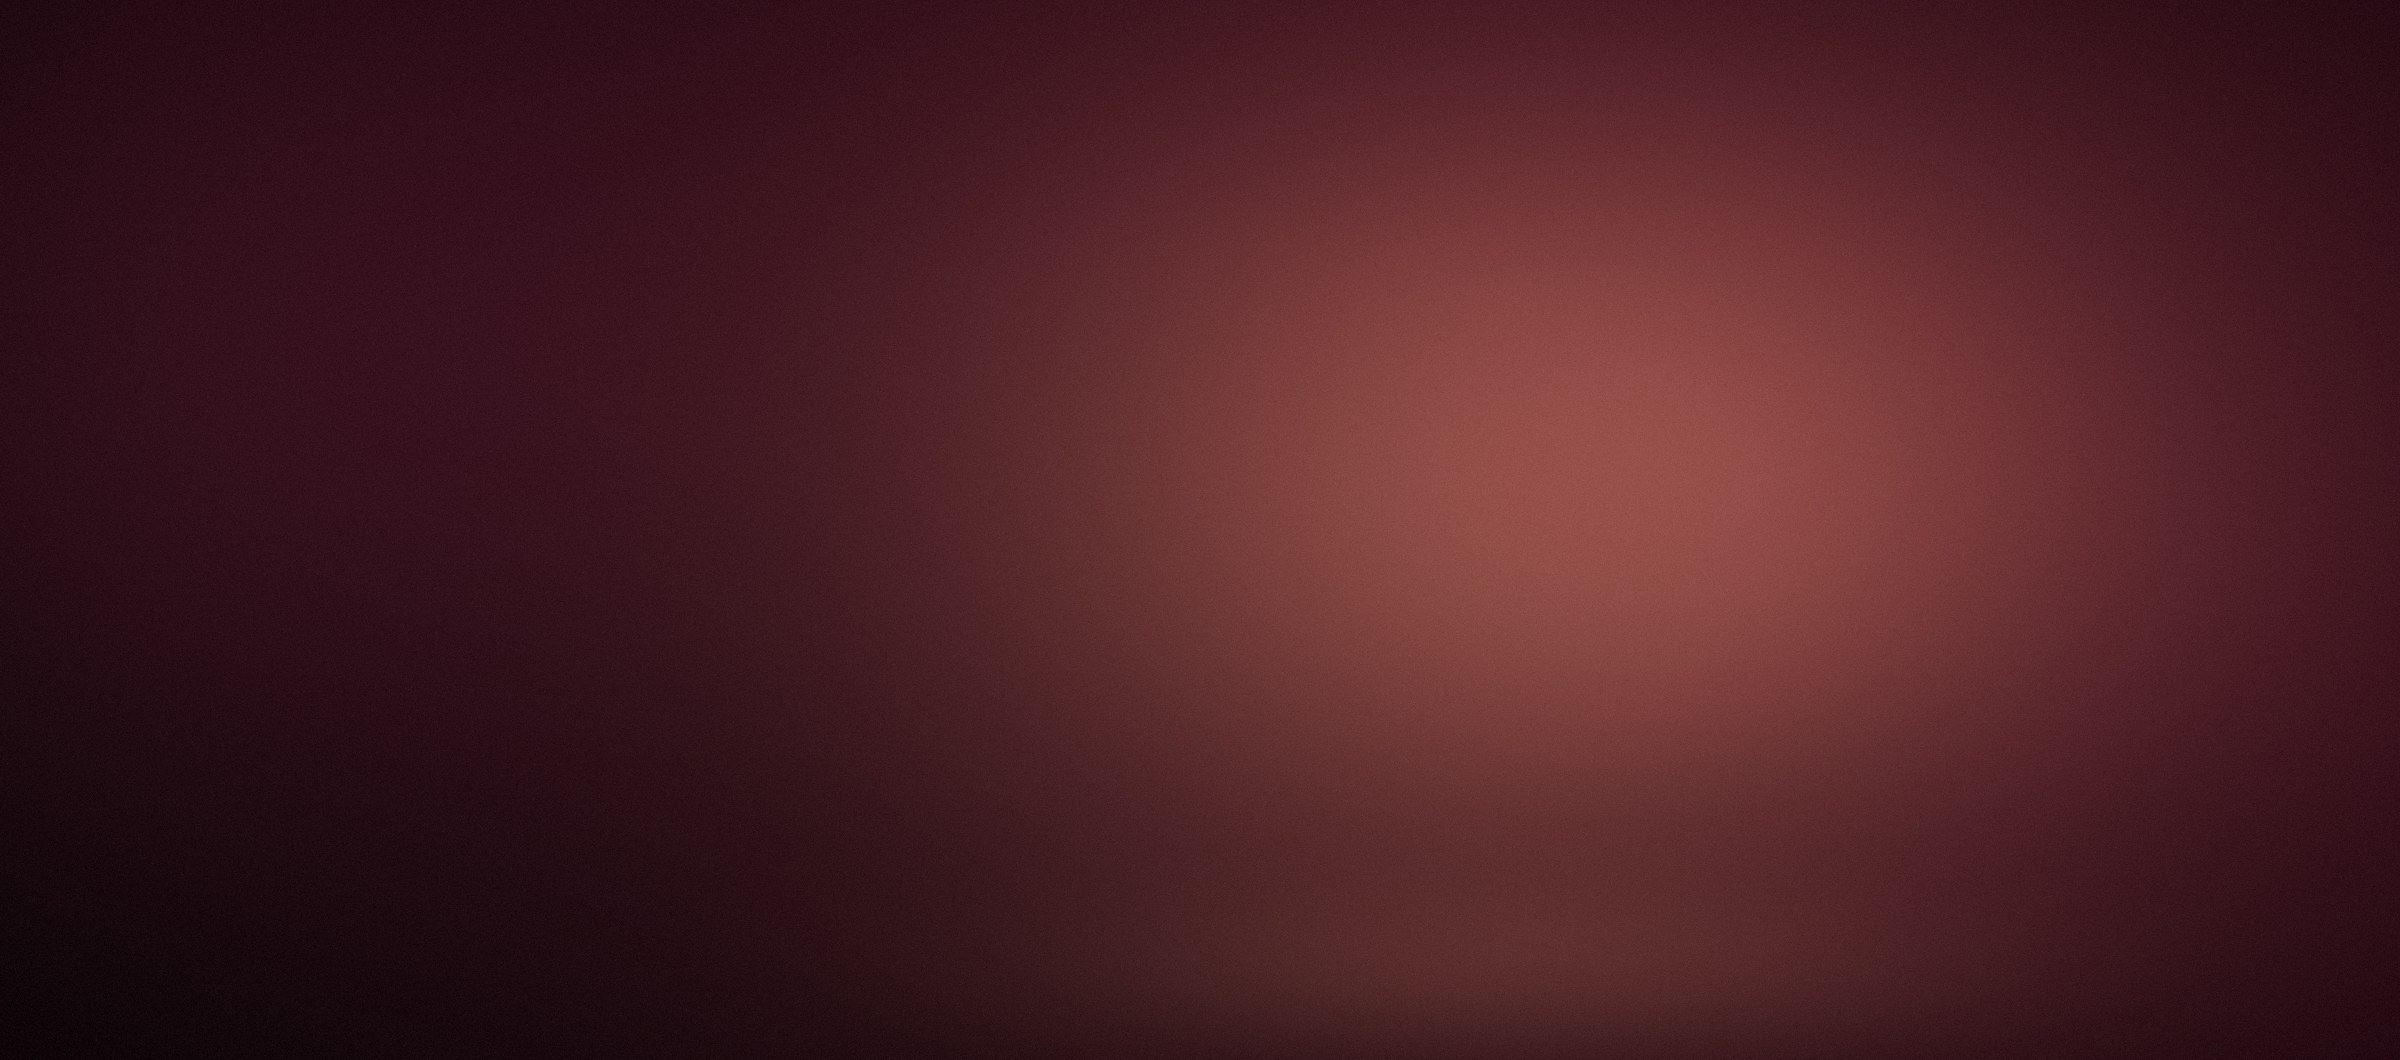
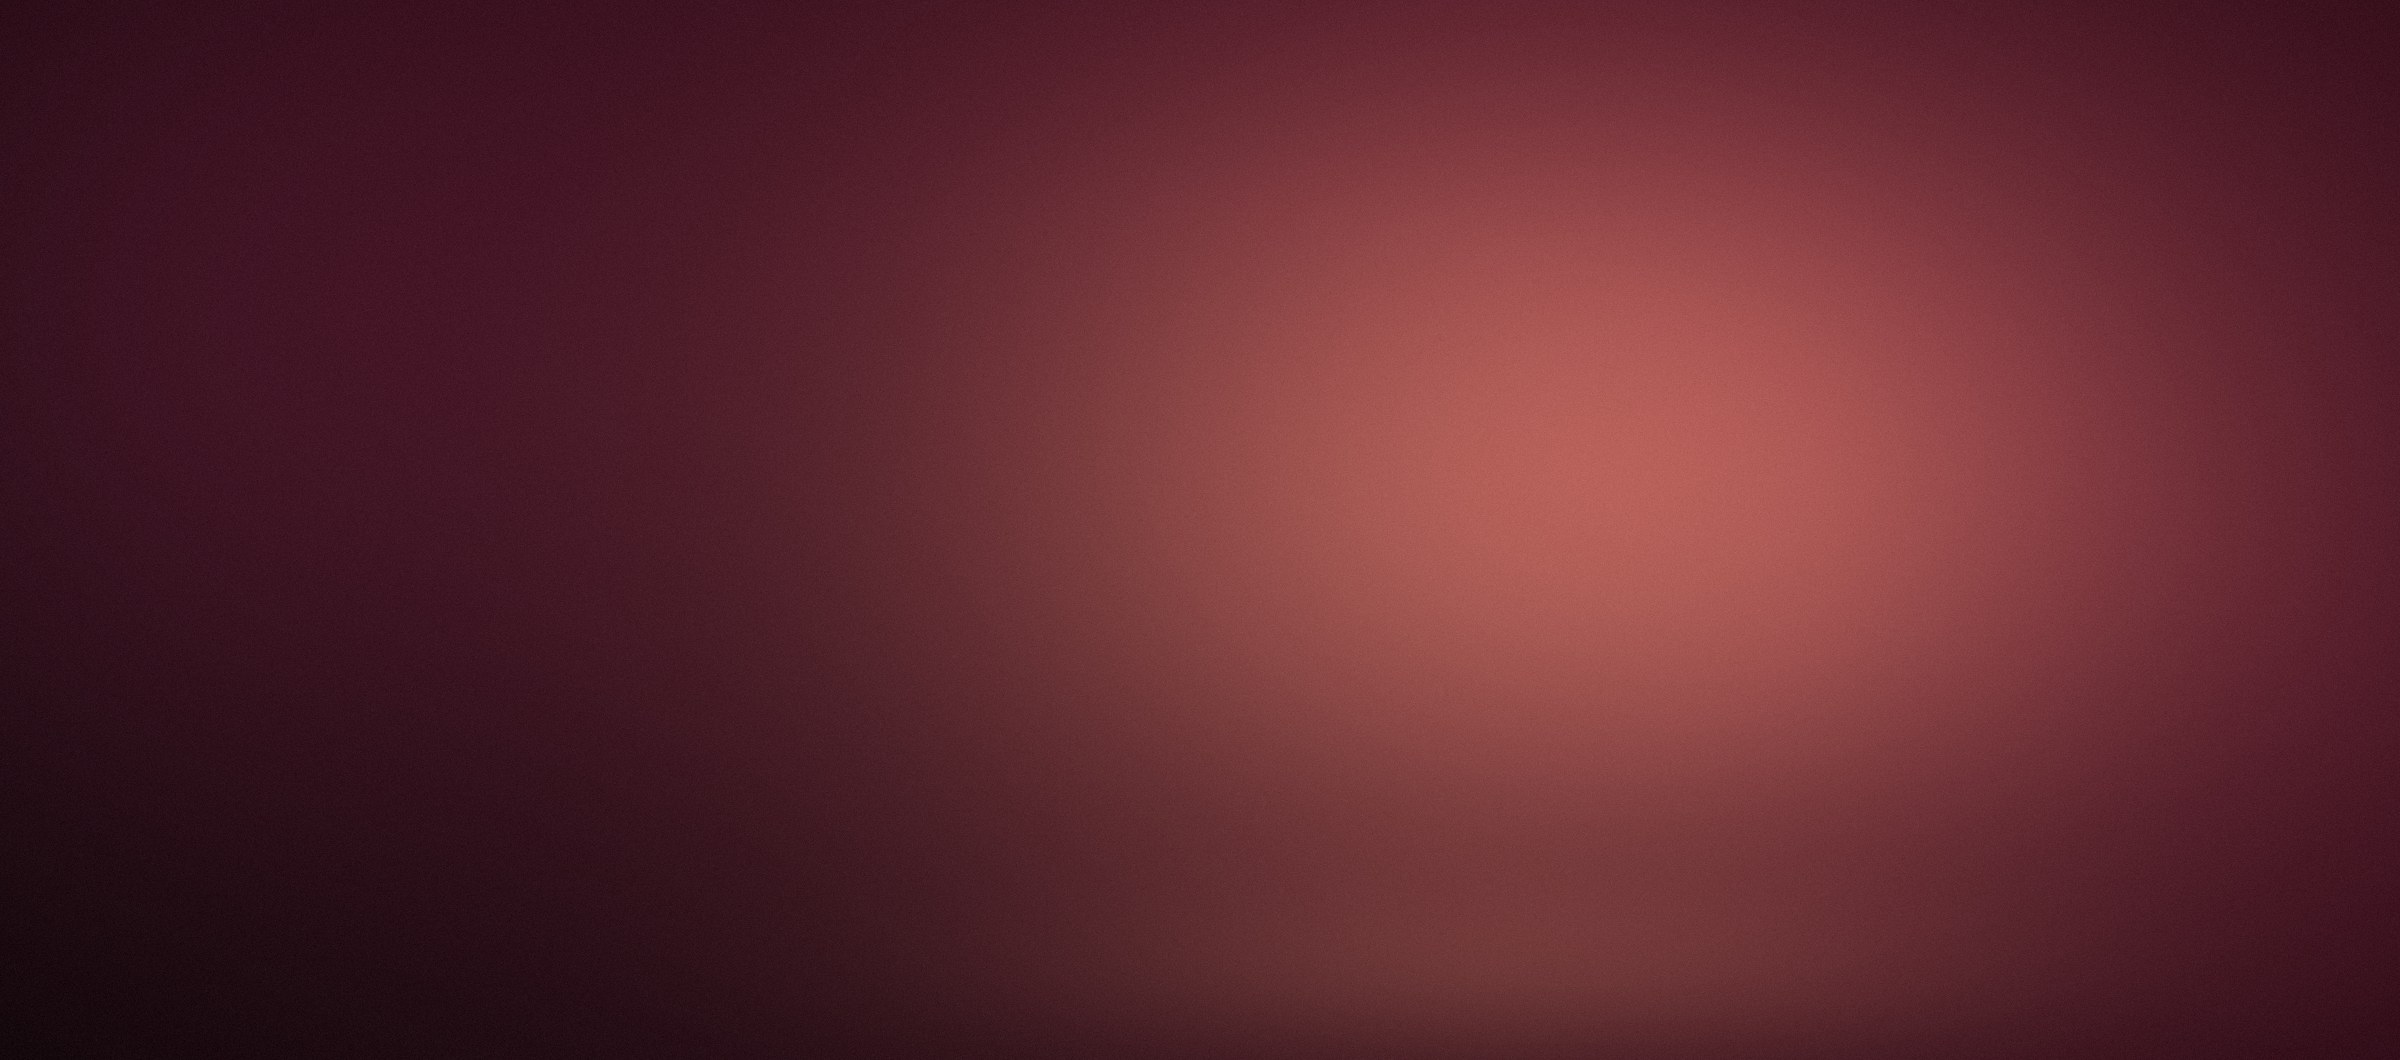
Fix the panels the automatic pass missed

Changed region(s): [[0.4375, 0.0, 0.9688, 0.8717]]

diff --git a/skin/skin.css b/skin/skin.css
@@ -1388,6 +1388,24 @@ hr, .border, .item-separator, .top_block, .section-title-wrapper { border-color:
 .scroll-top, .fixed_menu, #mobilemenu .menu_item { border-radius: 999px; }
 .wrap_icon .count, .basket_count, .icon_count { background: #a8213c !important; color: #fff !important; }
 
+/* --- то, что не поймал автоматический проход ---------------------------- */
+
+/* логотип нарисован тёмно-красным по светлому — на тёмной шапке пропадает */
+.logo svg .st0, .logo svg .st1, .logo svg path, .logo svg polygon { fill: #f1eae3 !important; }
+.logo svg { transition: opacity .25s ease; }
+.logo:hover svg { opacity: .82; }
+
+/* выезжающая корзина и мобильный фильтр остались белыми панелями */
+.basket_fly, .basket_fly .wrap_cont, .fly_basket, .basket_fly_wrapper,
+.scrollbar-filter, #mobilefilter {
+  background: #1c1615 !important; color: #f1eae3 !important;
+}
+
+/* миниатюры галереи — та же тёплая плитка, что и под крупным фото */
+.product-detail-gallery li.bordered, .detail .thumbs li, .slides li.bordered {
+  background: #f6efe4 !important; border-color: rgba(241, 234, 227, .10) !important;
+}
+
 /* полоса прокрутки в тон */
 ::-webkit-scrollbar { width: 11px; height: 11px; }
 ::-webkit-scrollbar-track { background: #15100f; }

diff --git a/skin/build_skin.py b/skin/build_skin.py
@@ -394,6 +394,24 @@ hr, .border, .item-separator, .top_block, .section-title-wrapper {{ border-color
 .scroll-top, .fixed_menu, #mobilemenu .menu_item {{ border-radius: 999px; }}
 .wrap_icon .count, .basket_count, .icon_count {{ background: {ACCENT} !important; color: #fff !important; }}
 
+/* --- то, что не поймал автоматический проход ---------------------------- */
+
+/* логотип нарисован тёмно-красным по светлому — на тёмной шапке пропадает */
+.logo svg .st0, .logo svg .st1, .logo svg path, .logo svg polygon {{ fill: {INK} !important; }}
+.logo svg {{ transition: opacity .25s ease; }}
+.logo:hover svg {{ opacity: .82; }}
+
+/* выезжающая корзина и мобильный фильтр остались белыми панелями */
+.basket_fly, .basket_fly .wrap_cont, .fly_basket, .basket_fly_wrapper,
+.scrollbar-filter, #mobilefilter {{
+  background: {PANEL} !important; color: {INK} !important;
+}}
+
+/* миниатюры галереи — та же тёплая плитка, что и под крупным фото */
+.product-detail-gallery li.bordered, .detail .thumbs li, .slides li.bordered {{
+  background: {TILE} !important; border-color: {LINE} !important;
+}}
+
 /* полоса прокрутки в тон */
 ::-webkit-scrollbar {{ width: 11px; height: 11px; }}
 ::-webkit-scrollbar-track {{ background: {GROUND}; }}

diff --git a/skin/hero.py b/skin/hero.py
@@ -30,8 +30,8 @@ CAKE_W, CAKE_H = 1308, 880
 SOURCE = os.path.join(BUILD, "photos", "749.jpg")
 
 # бордо подложки: слева темнее — там лежит текст, справа теплее — там свет
-DARK = np.array([21, 9, 13], np.float32)
-DEEP = np.array([64, 16, 32], np.float32)
+DARK = np.array([28, 12, 18], np.float32)
+DEEP = np.array([78, 20, 40], np.float32)
 WARM = np.array([206, 142, 98], np.float32)
 
 
@@ -46,7 +46,7 @@ def backdrop():
 
     # софит за тортом
     glow = np.exp(-(((u - 0.66) / 0.34) ** 2 + ((v - 0.46) / 0.52) ** 2))
-    img += WARM * (glow ** 1.7)[..., None] * 0.47
+    img += WARM * (glow ** 1.6)[..., None] * 0.56
 
     # второй, слабый и холодный — чтобы левый край не был плоским
     side = np.exp(-(((u - 0.06) / 0.30) ** 2 + ((v - 0.30) / 0.70) ** 2))
@@ -58,7 +58,7 @@ def backdrop():
 
     # виньетка по краям кадра
     r = np.sqrt(((u - 0.5) / 0.62) ** 2 + ((v - 0.5) / 0.72) ** 2)
-    img *= np.clip(1.06 - 0.44 * r ** 2.0, 0, 1)[..., None]
+    img *= np.clip(1.06 - 0.36 * r ** 2.1, 0, 1)[..., None]
 
     # зерно, чтобы градиент не полосил на больших экранах
     rng = np.random.default_rng(11)
